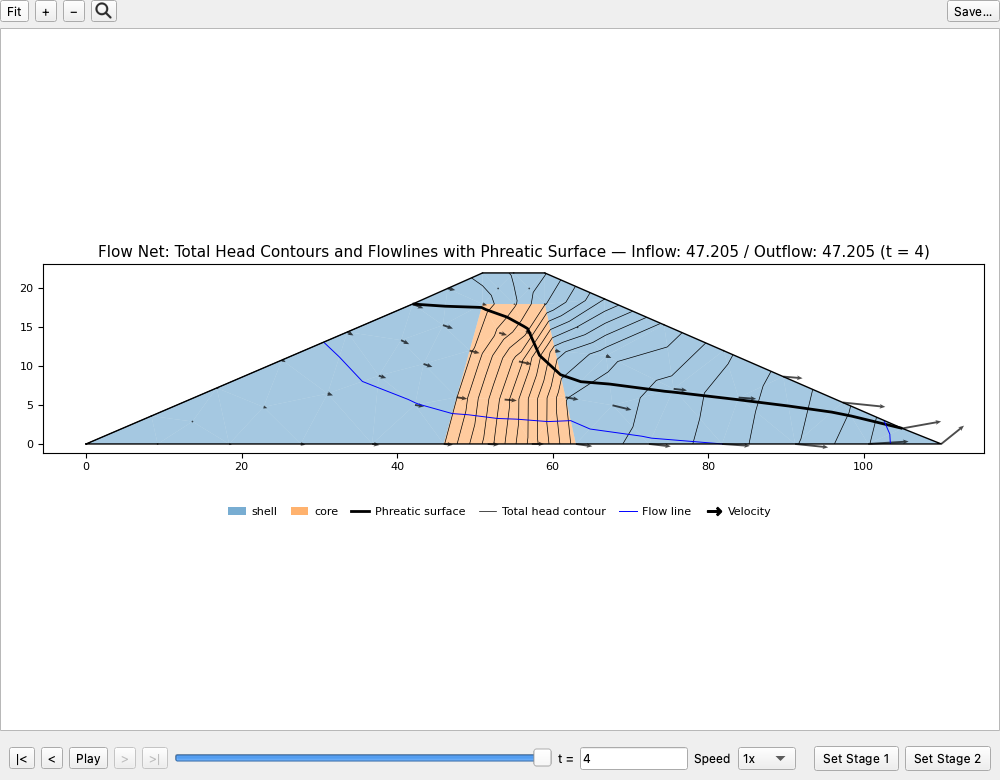
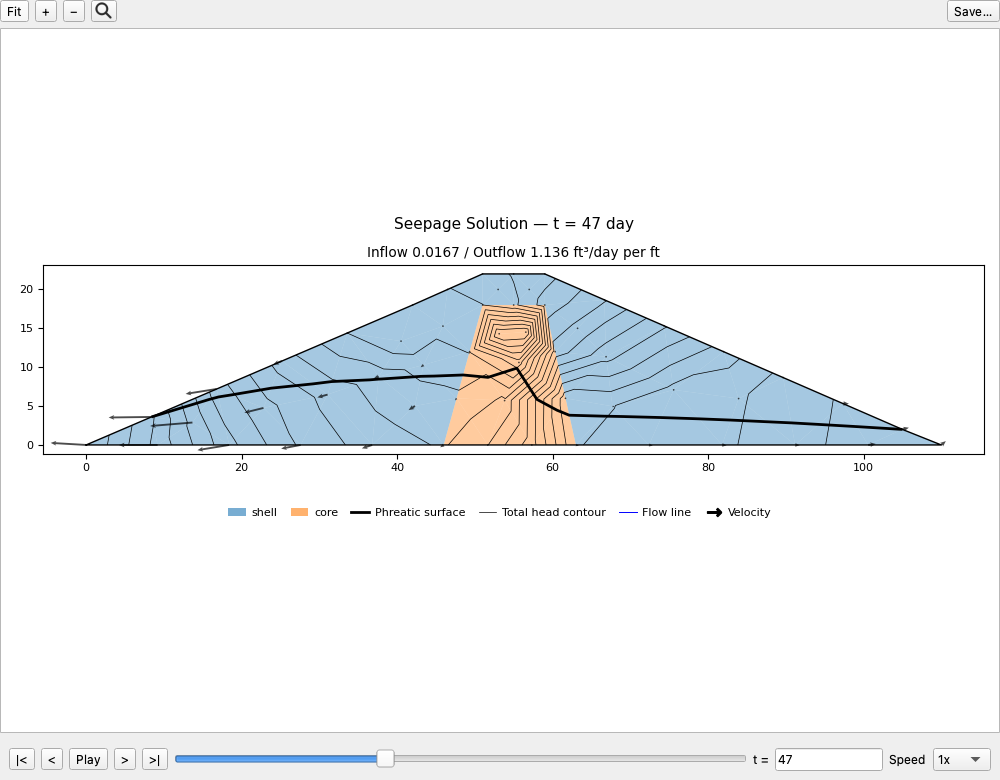
docs(studio): regenerate transient Studio screenshots for the redesign
Update tools/capture_studio_screenshots.py and regenerate the images
docs/studio embeds:
- analysis_run_seep_transient.png — the simplified Run Seepage dialog (no stage
  fields; the "edit under Inputs -> Transient" caption).
- analysis_seep_transient_playbar.png — the play bar with no Set Stage buttons,
  on a through-flow frame showing the new "Seepage Solution - t = ..." title.
- editing_transient_editor.png — NEW: the Transient inputs editor with its live
  series-vs-time plot (the earth-dam reservoir drawdown + stage reference lines).

Both transient captures now solve the real earth-dam reservoir-drawdown fixture.

Claude-Session: https://claude.ai/code/session_0147GB4LGVZuqGHCRMVzZTsR

diff --git a/tools/capture_studio_screenshots.py b/tools/capture_studio_screenshots.py
@@ -1,30 +1,36 @@
 """Studio-capture pipeline: regenerate the transient-seepage Studio screenshots
-that ``docs/studio/analysis.md`` embeds, headlessly (offscreen Qt) so it needs no
-display and produces byte-stable, native-quality grabs.
+that ``docs/studio/analysis.md`` and ``docs/studio/editing.md`` embed, headlessly
+(offscreen Qt) so it needs no display and produces byte-stable, native-quality grabs.
 
 This is the same offscreen-grab practice the reliability / parametric dialog
 images were captured with: build the real Studio widget, ``.show()`` it under the
 ``offscreen`` QPA platform, let the layout settle, then ``QWidget.grab()`` the
 widget to a PNG. Nothing here touches a live display or the user's window.
 
-Two captures land in ``docs/studio/images/``:
+Three captures land in ``docs/studio/images/``:
 
   * ``analysis_run_seep_transient.png`` — the Run Seepage dialog in **Transient**
-    mode with the rapid-drawdown stage fields visible. Built from
-    :class:`studio.dialogs.RunSeepDialog` with a tseep sheet present (so the
-    Transient choice appears and defaults on) and seeded stage times, sized to its
-    ``sizeHint`` to match the neighboring ``analysis_*_dialog.png`` images.
+    mode. Built from :class:`studio.dialogs.RunSeepDialog` with a tseep sheet present
+    (so the Transient choice appears and defaults on). The dialog carries NO
+    rapid-drawdown stage fields — those are model inputs, edited under Inputs →
+    Transient — just a caption pointing there. Sized to its ``sizeHint`` to match the
+    neighboring ``analysis_*_dialog.png`` images.
   * ``analysis_seep_transient_playbar.png`` — the **Seep · Transient** results view
     with the play bar (transport buttons, frame slider, ``t =`` readout, Speed
-    selector, Set Stage buttons) under a rendered flow-net frame. Built by solving
-    the SMALLEST viable transient model (earth_dam1 on a coarse tri3 mesh, a handful
-    of one-time-unit frames — a seconds-long solve) through the real
-    :class:`studio.runners.SeepRunner` transient path, loading the frames into a
-    :class:`studio.transient.TransientSeepView`, and grabbing the whole widget on
-    its last (fully developed) frame. The heavy transient solver is owned elsewhere;
-    this stays deliberately trivial.
+    selector — no stage-tag buttons) under a rendered flow-net frame, grabbed on a
+    through-flow frame so the flow net is fully developed.
+  * ``editing_transient_editor.png`` — the **Transient** inputs editor
+    (:class:`studio.editors.TransientDialog`): run controls, the extra-save-times
+    list, the named time-series table, and the live series-vs-time plot with the
+    rapid-drawdown stage reference lines. Captured on the earth-dam reservoir fixture
+    (its ``pool`` drawdown series makes a clear plot).
 
-Run:  python tools/capture_studio_screenshots.py     # regenerate both PNGs
+Both transient captures solve the SMALLEST viable transient model — the earth-dam
+reservoir-drawdown fixture on a coarse tri3 mesh, a handful of frames (a
+seconds-long solve) — through the real :class:`studio.runners.SeepRunner` transient
+path. The heavy solver is owned elsewhere; this stays deliberately trivial.
+
+Run:  python tools/capture_studio_screenshots.py     # regenerate all three PNGs
 
 Exits 0 with a note if PySide6 is not installed (engine-only install — no Studio
 layer to capture), mirroring the transient studio smoke test.
@@ -54,7 +60,9 @@ except Exception:                       # engine-only install — no studio laye
     sys.exit(0)
 
 OUT_DIR = os.path.join(REPO_ROOT, "docs", "studio", "images")
-DAM = os.path.join(REPO_ROOT, "docs/seep/files/xslope_earth_dam1.xlsx")
+# A real reservoir-drawdown transient fixture (materials carry Ss/Sy, the tseep sheet
+# carries the pool series + stage times), so nothing needs to be synthesized here.
+DAM = os.path.join(REPO_ROOT, "docs/seep/files/xslope_earth_dam_tseep.xlsx")
 
 _app = QApplication.instance() or QApplication([])
 # Modal dialogs must never block a headless run.
@@ -76,12 +84,10 @@ def _quiet(fn, *a, **k):
 
 
 def capture_run_dialog():
-    """Run Seepage dialog, Transient mode, rapid-drawdown stage fields shown."""
+    """Run Seepage dialog, Transient mode — no stage fields, just the caption."""
     from studio.dialogs import RunSeepDialog
 
-    tseep = {"stage_1": 10.0, "stage_2": 30.0, "duration": 100.0}
-    dlg = RunSeepDialog(has_bc2=True, has_tseep=True, tseep=tseep,
-                        defaults={"mode": "transient"})
+    dlg = RunSeepDialog(has_bc2=True, has_tseep=True, defaults={"mode": "transient"})
     dlg.resize(dlg.sizeHint())
     dlg.show()
     _settle()
@@ -92,38 +98,32 @@ def capture_run_dialog():
 
 
 def _solve_transient():
-    """Smallest viable transient solve: earth_dam1 + Ss/Sy on a coarse tri3 mesh,
-    a constant-BC series that relaxes from the steady IC so every saved frame is a
-    real flow net. Returns the runner bundle {seep_data, frames, ...}."""
+    """Smallest viable transient solve: the earth-dam reservoir-drawdown fixture on a
+    coarse tri3 mesh. Returns (slope_data, runner bundle {seep_data, frames, ...})."""
     from xslope.fileio import load_slope_data
     from xslope.mesh import get_material_polygons, build_mesh_from_polygons
     from studio.runners import SeepRunner
 
     d = load_slope_data(DAM)
-    for m in d["materials"]:
-        m["Ss"] = 1e-3
-        m["Sy"] = 0.2
     polys = get_material_polygons(d)
     xs = [x for x, _ in d["ground_surface"].coords]
     mesh = _quiet(build_mesh_from_polygons, polys, (max(xs) - min(xs)) / 16.0, "tri3")
     d["mesh"] = mesh
-    d["tseep"] = {"times": [], "series": {}, "duration": 4.0, "save_interval": 1.0,
-                  "save_times": [], "stage_1": 1.0, "stage_2": 3.0}
-    runner = SeepRunner(d, {"mode": "transient", "stage_1": 1.0, "stage_2": 3.0})
+    runner = SeepRunner(d, {"mode": "transient"})
     bundle, err = {}, {}
     runner.succeeded.connect(lambda b: bundle.update(b))
     runner.failed.connect(lambda msg: err.setdefault("msg", msg))
     _quiet(runner._run_transient, d, mesh)
     if err:
         raise RuntimeError(f"transient solve failed: {err['msg']}")
-    return bundle
+    return d, bundle
 
 
 def capture_playbar():
-    """Seep · Transient results view with the play bar under a rendered frame."""
+    """Seep · Transient results view with the play bar under a through-flow frame."""
     from studio.transient import TransientSeepView
 
-    bundle = _solve_transient()
+    _d, bundle = _solve_transient()
     seep_data, frames = bundle["seep_data"], bundle["frames"]
     opts = {"variable": "head", "levels": 20, "flowlines": True,
             "vectors": True, "phreatic": True}
@@ -133,7 +133,9 @@ def capture_playbar():
                     style_getter=lambda: None, keep_index=False)
     view.show()
     _settle()
-    view.set_index(view.frame_count() - 1)   # last, fully developed frame
+    # A mid frame: the reservoir has dropped but through-flow is still strong, so the
+    # flow net is fully developed (flow lines present).
+    view.set_index(max(view.frame_count() // 3, 1))
     _settle()
     view.canvas._render_current()            # force the raster into the scene
     _settle()
@@ -143,9 +145,29 @@ def capture_playbar():
     return out
 
 
+def capture_transient_editor():
+    """The Transient inputs editor with its live series-vs-time plot populated."""
+    from xslope.fileio import load_slope_data
+    from studio.editors import TransientDialog
+
+    d = load_slope_data(DAM)
+    dlg = TransientDialog(d.get("tseep"), d, None)
+    dlg.resize(1080, 620)
+    dlg.show()
+    _settle()
+    dlg._preview.refresh_now()
+    _settle()
+    dlg._preview.canvas._render_current()     # force the plot raster into the scene
+    _settle()
+    out = os.path.join(OUT_DIR, "editing_transient_editor.png")
+    dlg.grab().save(out)
+    dlg.close()
+    return out
+
+
 def main():
     print("capture_studio_screenshots: regenerating transient Studio images")
-    for fn in (capture_run_dialog, capture_playbar):
+    for fn in (capture_run_dialog, capture_playbar, capture_transient_editor):
         path = fn()
         print(f"  wrote {os.path.relpath(path, REPO_ROOT)}")
     print("done")
